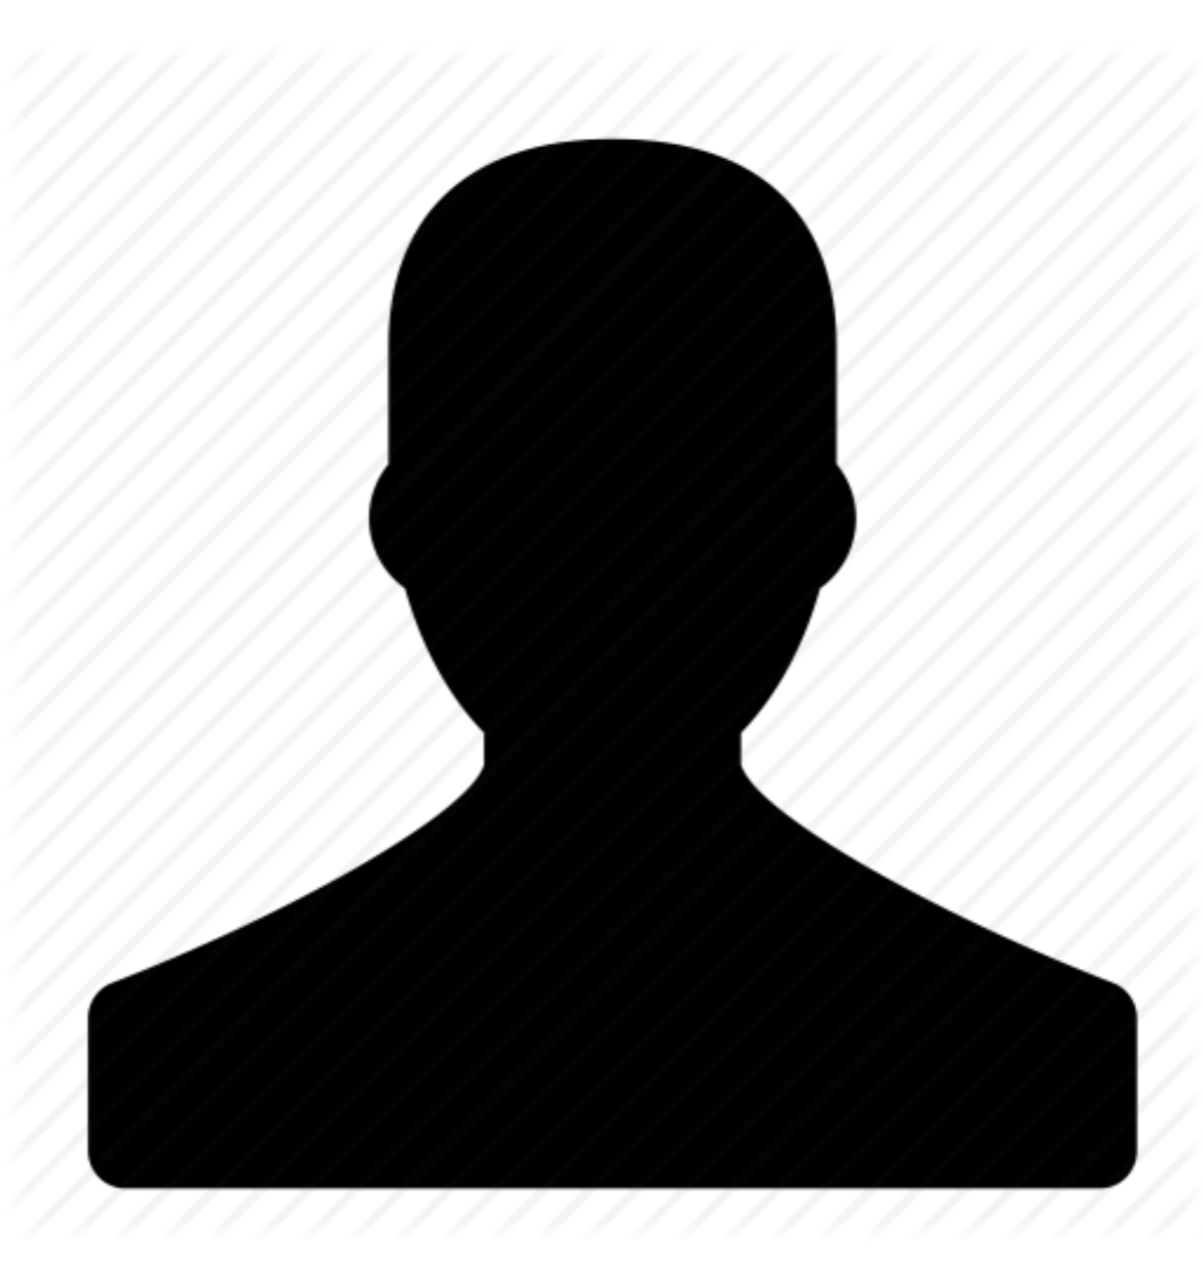
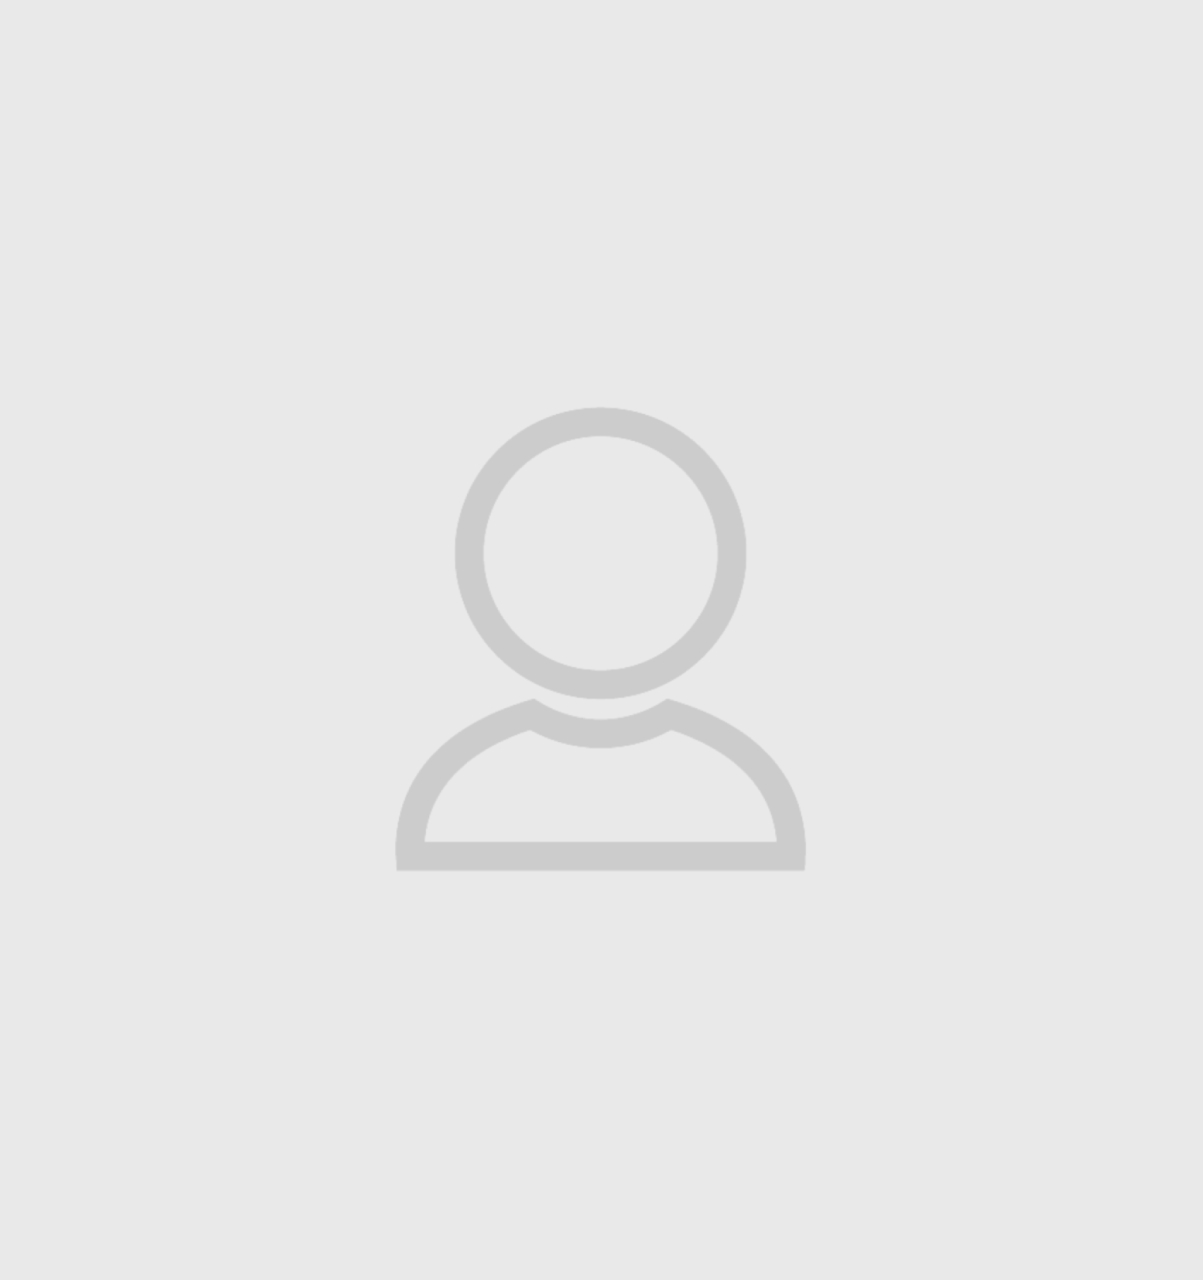
Add Marketer section in team page and update alt user image

diff --git a/team.html b/team.html
@@ -174,18 +174,19 @@
 				<button type="button" class="control" style="cursor: none;" data-filter=".dev">Directors</button>
 				<button type="button" class="control" style="cursor: none;" data-filter=".designer">Designers</button>
 				<button type="button" class="control" style="cursor: none;" data-filter=".support">Developers</button>
+				<button type="button" class="control" style="cursor: none;" data-filter=".marketer">Marketer</button>
 			</div>
 
 			<div class="mixitUp-container">
-				<div class="mix dev">
+				<div class="mix dev support">
 					<div class="team-block-two text-center">
 						<div class="img-meta"><a href="https://www.instagram.com/pow3r24k/" target="!blank"><img
 									src="images/team/kushalPhoto_CleverStudio.jpg" alt="" class="w-100"></a>
 						</div>
 						<h4 class="name">Kushal Shah</h4>
 						<p>Creative Media Director</p>
-					</div> <!-- /.team-block-two -->
-				</div> <!-- /.mix -->
+					</div>
+				</div> 
 				<div class="mix dev">
 					<div class="team-block-two text-center">
 						<div class="img-meta"><img src="images/team/UnknowmUser.jpg" alt="" class="w-100"></div>
@@ -212,10 +213,10 @@
 					<div class="team-block-two text-center">
 						<div class="img-meta"><img src="images/team/UnknowmUser.jpg" class="w-100"></div>
 						<h4 class="name">Aakash Panchal</h4>
-						<p>Senior Web Developer</p>
+						<p>Lead Web Developer</p>
 					</div>
 				</div>
-				<div class="mix designer">
+				<div class="mix marketer">
 					<div class="team-block-two text-center">
 						<div class="img-meta"><img src="images/team/GovindPhoto_CleverStudio.jpg" alt="" class="w-100">
 						</div>
